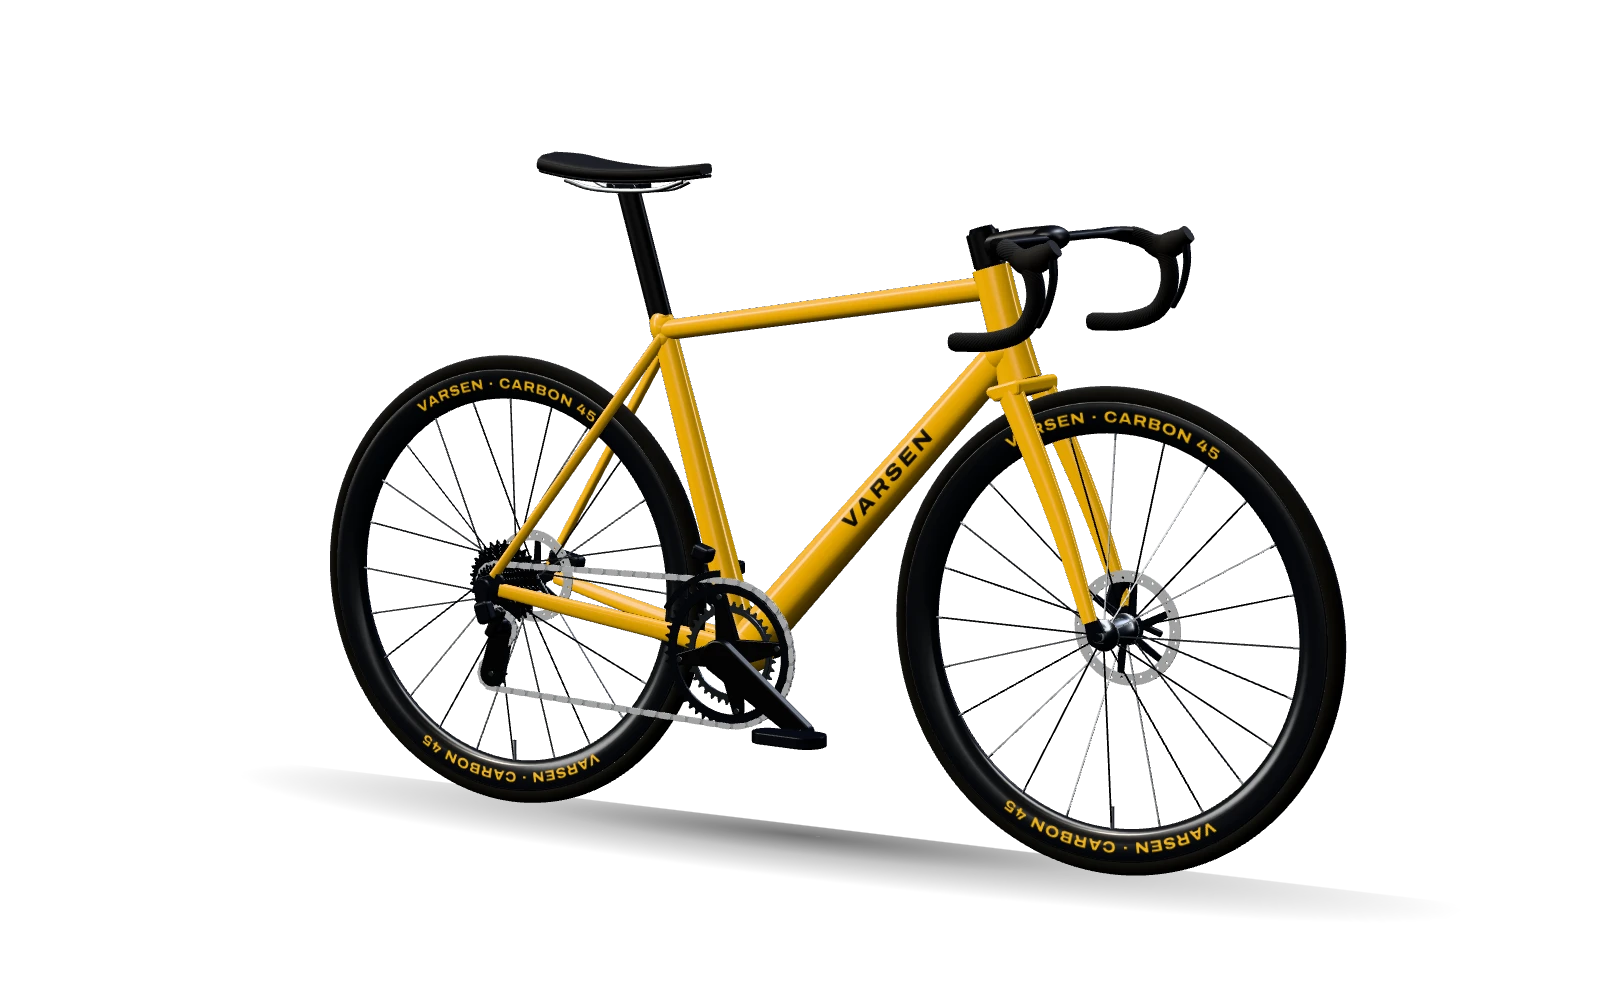
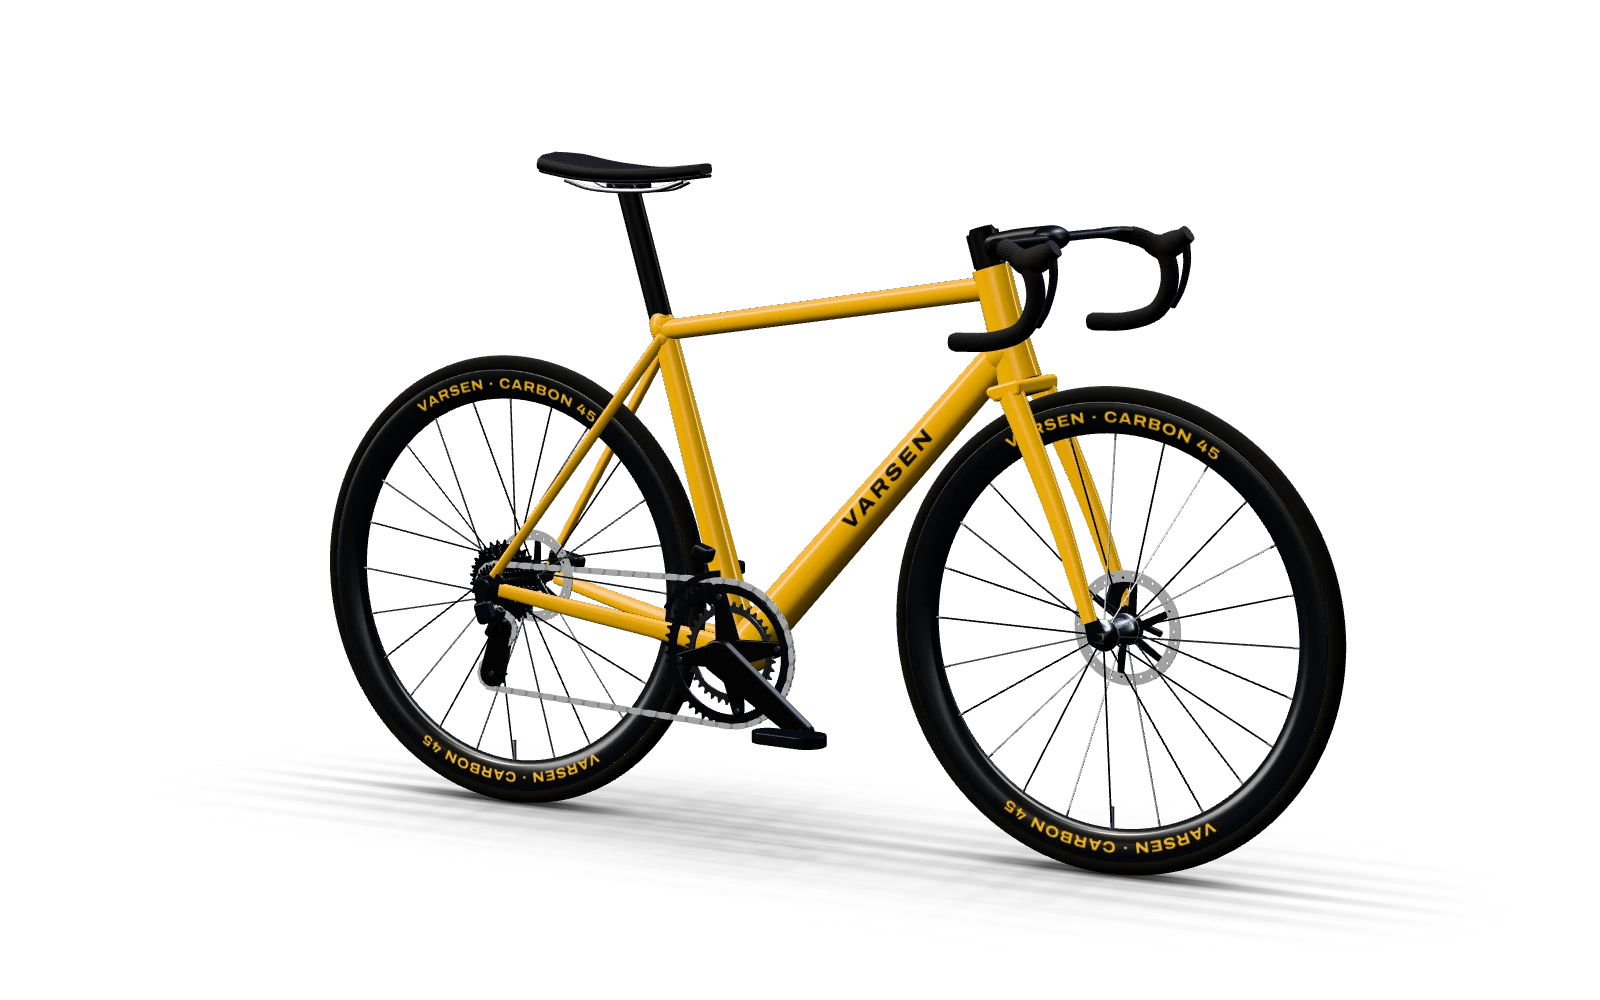
Varsen: a contact shadow rendered from the bike, and no line on the floor
Why: the owner saw a hard line on the floor under the bike, and the shadow stayed put while the bike turned. Two causes:
the floor's light pool was a radial gradient stretched onto a 3.2 x 1.3 m quad, so its long edges showed as a straight
line; and the shadow was a canvas-drawn oval fixed to the floor, so it ignored the bike's turn and its parts. The owner
chose "a real shadow from the bike" from three proposals.
What: the shadow is rendered from the bike itself: an orthographic camera on the floor looks up, every surface writes a
contact term (sharp, what nearly touches the floor) and an occlusion term (broad) by its height, each part's fade
carried in; two separable blurs (about 1.5 cm and 10 cm), and a floor quad that samples it in world space, fading at
its own and the plate's edges, drawn after the light pool. It is redrawn with each plate, so it turns with the bike and
in the build each part brings its own shadow. The light pool is now an oval that fades out fully inside its quad. The
old oval (shadowBlob) is removed. Start-up: the shadow's programs compile with the rest, its first use is spread over
one short task per part, and it joins after the first frame. Posters re-rendered.
Proved: the shadow map shows dark patches under both tyres and a pool shaped like the bike; it follows the wheels when
the bike turns 60 degrees; on the hero floor it darkens 8,319 px by up to 24 levels, and the floor's largest row-to-row
[…]

Changed region(s): [[0.25, 0.775, 0.6562, 0.899], [0.6562, 0.868, 0.8125, 0.899]]

diff --git a/scrollcraft/builds/varsen/js/app.js b/scrollcraft/builds/varsen/js/app.js
@@ -4,7 +4,7 @@
 // and the booking. Render on demand only.
 import * as THREE from '../vendor/three@0.185.1/three.module.min.js';
 import { SIZES, BY_SIZE, sizesForHeight } from './sizes.js';
-import { makeMaterials, fadeSet, buildBike, buildSize, shadowBlob, measureBuilt, validateGeometry, assembly, assertStages, STAGES, CHART, yieldToMain, slice, EASE } from './bike.js';
+import { makeMaterials, fadeSet, buildBike, buildSize, measureBuilt, validateGeometry, assembly, assertStages, STAGES, CHART, yieldToMain, slice, EASE } from './bike.js';
 
 const Q = new URLSearchParams(location.search), QA = Q.has('qa');
 const RM = matchMedia('(prefers-reduced-motion: reduce)');
@@ -66,7 +66,131 @@ function makeFader(g, FADE, skip = null) {
    ===================================================================================== */
 const STAGE_BY_ID = Object.fromEntries(STAGES.map(s => [s.id, { ...s, offV: new THREE.Vector3(...s.off), q0: new THREE.Quaternion().setFromAxisAngle(new THREE.Vector3(...s.axis).normalize(), rad(s.deg)), ndsV: s.nds ? new THREE.Vector3(...s.nds).sub(new THREE.Vector3(...s.off)) : null }]));
 const IDQ = new THREE.Quaternion();
+
+/* =====================================================================================
+   Contact shadow, rendered from the bike itself. An orthographic camera on the floor looks straight up; the depth test
+   keeps the lowest surface over each texel, and that surface's height sets how dark its shadow is (a tyre touching the
+   floor darkest, the frame faint). Two blur passes soften it and a floor quad shows it. It is redrawn with the plate it
+   lies in, so it turns with the bike, and in the build every part brings its own shadow, fading in with it.
+   (It replaced a canvas-drawn oval that was attached to the floor and cut straight across by a drawing bug.)
+   ===================================================================================== */
+const CONTACT = { size: 2.8, res: 320, height: 1.2, strength: 1.0 };   // metres of floor, texels, metres up, max darkness
+// what each texel keeps: the darkness of the lowest surface over it, scaled by that part's own fade (uOpacity)
+const SHADOW_DEPTH = new THREE.ShaderMaterial({
+  uniforms: { uOpacity: { value: 1 } },
+  vertexShader: `varying float vY;
+    void main() {
+      vec4 w = vec4(position, 1.0);
+      #ifdef USE_INSTANCING
+        w = instanceMatrix * w;
+      #endif
+      w = modelMatrix * w; vY = w.y;
+      gl_Position = projectionMatrix * viewMatrix * w;
+    }`,
+  fragmentShader: `uniform float uOpacity; varying float vY;
+    void main() {
+      float h = max(vY, 0.0);
+      // red: contact, only what nearly touches the floor (blurred a little); green: the body's soft occlusion (blurred
+      // a lot), so the bike stands in a soft pool shaped like itself with darker patches under the tyres
+      gl_FragColor = vec4(exp(-h / 0.035) * uOpacity, exp(-h / 0.55) * uOpacity, 0.0, 1.0);
+    }`,
+  side: THREE.DoubleSide,
+});
+// per mesh, before it draws in the shadow pass: carry its fade into the shadow (three uploads a ShaderMaterial's
+// uniforms once per program unless asked to)
+function shadowOpacityHook(r, s, c, g, material) {
+  if (material !== SHADOW_DEPTH) return;
+  SHADOW_DEPTH.uniforms.uOpacity.value = this.material.opacity ?? 1; SHADOW_DEPTH.uniformsNeedUpdate = true;
+}
+function makeContactShadow() {
+  const { size, res, height } = CONTACT, half = size / 2;
+  const rtA = new THREE.WebGLRenderTarget(res, res, { depthBuffer: true }), rtB = new THREE.WebGLRenderTarget(res, res, { depthBuffer: false });
+  const cam = new THREE.OrthographicCamera(-half, half, half, -half, 0, height);
+  cam.position.set(0, 0, 0); cam.up.set(0, 0, 1); cam.lookAt(0, 1, 0); cam.updateMatrixWorld(); cam.updateProjectionMatrix();
+  const vp = new THREE.Matrix4().multiplyMatrices(cam.projectionMatrix, cam.matrixWorldInverse);
+  // separable Gaussian, 9 taps as 5 bilinear reads
+  const blur = new THREE.ShaderMaterial({
+    uniforms: { tMap: { value: null }, uDir: { value: new THREE.Vector2() }, uDirG: { value: new THREE.Vector2() } }, depthTest: false, depthWrite: false,
+    vertexShader: 'varying vec2 vUv; void main() { vUv = uv; gl_Position = vec4(position.xy, 0.0, 1.0); }',
+    fragmentShader: `uniform sampler2D tMap; uniform vec2 uDir, uDirG; varying vec2 vUv;
+      float g9(vec2 d, int ch) {                    // one channel, blurred along d
+        vec4 a = texture2D(tMap, vUv) * 0.2270270270;
+        a += (texture2D(tMap, vUv + d * 1.3846153846) + texture2D(tMap, vUv - d * 1.3846153846)) * 0.3162162162;
+        a += (texture2D(tMap, vUv + d * 3.2307692308) + texture2D(tMap, vUv - d * 3.2307692308)) * 0.0702702703;
+        return ch == 0 ? a.r : a.g;
+      }
+      void main() { gl_FragColor = vec4(g9(uDir, 0), g9(uDirG, 1), 0.0, 1.0); }`,
+  });
+  const quadScene = new THREE.Scene(), quadCam = new THREE.OrthographicCamera(-1, 1, 1, -1, 0, 1);
+  quadScene.add(new THREE.Mesh(new THREE.PlaneGeometry(2, 2), blur));
+  // the floor quad: samples the shadow at its own world position through the shadow camera, so orientation cannot slip
+  const mesh = new THREE.Mesh(new THREE.PlaneGeometry(size, size), new THREE.ShaderMaterial({
+    uniforms: { tMap: { value: rtA.texture }, uVP: { value: vp }, uPlate: PLATE_PX, uStrength: { value: CONTACT.strength } },
+    transparent: true, depthWrite: false,
+    vertexShader: 'varying vec3 vW; void main() { vec4 w = modelMatrix * vec4(position, 1.0); vW = w.xyz; gl_Position = projectionMatrix * viewMatrix * w; }',
+    fragmentShader: `uniform sampler2D tMap; uniform mat4 uVP; uniform vec4 uPlate; uniform float uStrength; varying vec3 vW;
+      void main() {
+        vec4 c = uVP * vec4(vW.x, 0.0, vW.z, 1.0); vec2 uv = c.xy / c.w * 0.5 + 0.5;
+        vec2 m = texture2D(tMap, uv).rg;
+        float a = clamp(m.r * 1.6 + m.g * 0.95, 0.0, 0.94) * uStrength;   // tuned so the tyre contact reads on the dark floor
+        vec2 e = smoothstep(vec2(0.0), vec2(0.08), uv) * smoothstep(vec2(0.0), vec2(0.08), 1.0 - uv);   // never a square edge
+        vec2 q = (gl_FragCoord.xy - uPlate.xy) / uPlate.zw, ramp = vec2(0.12, 0.08);
+        vec2 f = smoothstep(vec2(0.0), ramp, q) * smoothstep(vec2(0.0), ramp, 1.0 - q);           // fade at the plate's edges
+        gl_FragColor = vec4(0.012, 0.012, 0.014, a * e.x * e.y * f.x * f.y);
+      }`,
+  }));
+  mesh.rotation.x = -Math.PI / 2; mesh.position.y = 0.0015; mesh.renderOrder = 1; mesh.name = 'contactShadow';   // after the floor pool, or the pool lights it back up
+  const pass = (src, dst, dx, dy, gx, gy) => {
+    blur.uniforms.tMap.value = src.texture; blur.uniforms.uDir.value.set(dx / res, dy / res); blur.uniforms.uDirG.value.set(gx / res, gy / res);
+    gl.renderer.setRenderTarget(dst); gl.renderer.render(quadScene, quadCam);
+  };
+  return {
+    mesh, rt: rtA,                                  // rt: read by the QA hooks
+    /** Compile the shadow's programs off the main thread at start-up (the depth pass, plain and instanced, and the
+        blur), so its first draw does not stall: compiled on first use they were a 400 ms task in Lighthouse mobile. */
+    async warm(renderer) {
+      const depth = new THREE.Scene(), g = new THREE.BoxGeometry(0.01, 0.01, 0.01);
+      depth.add(new THREE.Mesh(g, SHADOW_DEPTH), new THREE.InstancedMesh(g, SHADOW_DEPTH, 1));
+      try { await Promise.all([renderer.compileAsync(depth, cam), renderer.compileAsync(quadScene, quadCam)]); } catch { /* compiles on first use */ }
+      g.dispose();
+    },
+    /** First use, spread over short tasks, so no one-time GPU set-up lands in a long task at start-up: the first draw of
+        each mesh with the depth pass builds its GPU state (about 170 ms in one task under Lighthouse mobile), so the
+        bike's parts are drawn one per task, then each blur. */
+    async prime(renderer, bike) {
+      const { scene, floor } = gl, parts = Object.values(bike.parts);
+      floor.visible = false; scene.overrideMaterial = SHADOW_DEPTH;
+      renderer.setRenderTarget(rtA); renderer.clear(true, true, false);
+      for (const g of parts) {
+        for (const o of parts) o.visible = o === g;
+        renderer.setRenderTarget(rtA); renderer.render(scene, cam); renderer.setRenderTarget(null);
+        await yieldToMain();
+      }
+      for (const o of parts) o.visible = true;
+      scene.overrideMaterial = null; floor.visible = true;
+      pass(rtA, rtB, 1.6, 0, 6, 0); renderer.setRenderTarget(null); await yieldToMain();
+      pass(rtB, rtA, 0, 1.6, 0, 6); renderer.setRenderTarget(null); await yieldToMain();
+    },
+    live: false,                                    // off for the first frame (see initGL), then always on
+    /** Redraw the shadow of whatever bikes the scene shows now (posed, turned). Call before rendering a plate. */
+    update() {
+      if (!this.live) return;
+      const { renderer, scene, floor } = gl, clear = new THREE.Color(), alpha = renderer.getClearAlpha(); renderer.getClearColor(clear);
+      const scissor = renderer.getScissorTest();
+      renderer.setScissorTest(false);
+      floor.visible = false; scene.overrideMaterial = SHADOW_DEPTH;
+      renderer.setRenderTarget(rtA); renderer.setClearColor(0x000000, 1); renderer.clear(true, true, false);
+      renderer.render(scene, cam);
+      scene.overrideMaterial = null; floor.visible = true;
+      // contact: about 1.5 cm of softening; body: about 10 cm (two rounds of the wide blur)
+      pass(rtA, rtB, 1.6, 0, 6, 0); pass(rtB, rtA, 0, 1.6, 0, 6); pass(rtA, rtB, 0, 0, 6, 0); pass(rtB, rtA, 0, 0, 0, 6);
+      renderer.setRenderTarget(null); renderer.setClearColor(clear, alpha); renderer.setScissorTest(scissor);
+    },
+  };
+}
+
 function wrapBike(b, FADE) {
+  b.root.traverse(o => { if (o.isMesh) o.onBeforeRender = shadowOpacityHook; });   // its parts' fades reach their shadows
   const chain = b.parts.drivetrain.getObjectByName('chain');
   const faders = Object.fromEntries(Object.entries(b.parts).map(([k, g]) => [k, makeFader(g, FADE, k === 'drivetrain' ? chain : null)]));
   const w = { ...b, faders, chainFader: makeFader(chain, FADE), spins: { wheelF: b.parts.wheelF.getObjectByName('spin'), wheelR: b.parts.wheelR.getObjectByName('spin') },
@@ -226,12 +350,16 @@ async function buildEnvironment(r, scene) {       // PMREM without blocking: pre
   return env;
 }
 function floorPool() {                              // the pool of light the bike stands in (reads as the studio floor)
+  // Drawn as a smooth falloff that reaches zero well inside its square, on a square quad. (It was a radial gradient
+  // stretched onto a 3.2 x 1.3 m quad: the corners of the texture still carried light, so the quad's long edges
+  // showed on the floor as a straight line under the bike.)
   const c = document.createElement('canvas'); c.width = c.height = 256;
-  const x = c.getContext('2d'), g = x.createRadialGradient(128, 128, 0, 128, 128, 128);
-  g.addColorStop(0, 'rgba(255,255,255,1)'); g.addColorStop(0.5, 'rgba(255,255,255,0.35)'); g.addColorStop(1, 'rgba(255,255,255,0)');
+  const x = c.getContext('2d'), g = x.createRadialGradient(128, 128, 0, 128, 128, 120);
+  g.addColorStop(0, 'rgba(255,255,255,1)'); g.addColorStop(0.35, 'rgba(255,255,255,0.55)'); g.addColorStop(0.7, 'rgba(255,255,255,0.14)'); g.addColorStop(1, 'rgba(255,255,255,0)');
   x.fillStyle = g; x.fillRect(0, 0, 256, 256);
   const tex = new THREE.CanvasTexture(c); tex.colorSpace = THREE.SRGBColorSpace;
-  const m = new THREE.Mesh(new THREE.PlaneGeometry(3.2, 1.3), new THREE.MeshBasicMaterial({ map: tex, transparent: true, opacity: 0.075, depthWrite: false, toneMapped: false }));
+  const pool = new THREE.PlaneGeometry(3.2, 3.2); pool.scale(1, 0.42, 1);   // an oval pool, its texture fully faded inside the quad
+  const m = new THREE.Mesh(pool, new THREE.MeshBasicMaterial({ map: tex, transparent: true, opacity: 0.075, depthWrite: false, toneMapped: false }));
   m.rotation.x = -Math.PI / 2; m.position.y = 0.0008; m.renderOrder = -2; m.name = 'floorPool';
   return fadeAtPlateEdges(m);
 }
@@ -454,6 +582,7 @@ function plateSignature(spec, r, pr) {
 /** Draw the scene (already posed and aimed) at the off-screen canvas's top-left, then copy it into the plate's canvas. */
 function drawPlate(P, r) {
   const { renderer, scene, camera } = gl;
+  gl.contact.update();                              // the floor shadow of the bike exactly as this plate poses it
   if (r.width > gl.cw || r.height > gl.ch) {        // a plate larger than the screen: grow the drawing buffer to hold it
     const w = Math.max(gl.cw, Math.ceil(r.width)), h = Math.max(gl.ch, Math.ceil(r.height));
     renderer.setSize(w, h, false); gl.cw = w; gl.ch = h;
@@ -498,6 +627,7 @@ function restPass() {
     if (pr < level * 1.2 || (P.rest && P.rest === P.sig)) continue;                    // little to gain, or done
     const spec = preparePlate(name, r); if (!spec) continue;
     const sig = plateSignature(spec, r, level);
+    gl.contact.update();
     const w = Math.ceil(r.width), h = Math.ceil(r.height);
     renderer.setPixelRatio(pr); renderer.setSize(w, h, false); resized = true;   // a buffer the plate's own size
     renderer.setViewport(0, 0, r.width, r.height); renderer.setScissor(0, 0, r.width, r.height); renderer.setScissorTest(true);
@@ -548,6 +678,7 @@ function renderPoster(kind, arg, cssW = 800) {
   for (const b of gl.all) b.root.visible = b === bike;
   pose(bike, ASSEMBLED, 1); gl.spinner.rotation.y = 0; light.t = 1; applyLight();
   if (typeof view === 'function') view(camera, aspect); else aim(camera, view, aspect);
+  gl.contact.update();
   renderer.setScissorTest(true); renderer.setViewport(0, y, cssW, cssH); renderer.setScissor(0, y, cssW, cssH);
   PLATE_PX.value.set(0, y * pr, cssW * pr, cssH * pr);
   renderer.setClearColor(0x000000, 0); renderer.clear(); renderer.render(scene, camera);
@@ -857,9 +988,9 @@ async function initGL() {
   const base = wrapBike(raw, FADE); spinner.add(base.root);
   const key = new THREE.DirectionalLight(0xfff6e8, 1.9), rim = new THREE.DirectionalLight(0xdfe8ff, 0.9);
   rim.position.set(1.4, 3.8, -4.4); scene.add(key, rim);
-  const floor = new THREE.Group(); floor.add(floorPool(), fadeAtPlateEdges(shadowBlob())); scene.add(floor);
+  const contact = makeContactShadow(), floor = new THREE.Group(); floor.add(floorPool(), contact.mesh); scene.add(floor);
   const camera = new THREE.PerspectiveCamera(24, 1, 0.05, 20);
-  Object.assign(gl, { scene, camera, spinner, base, base56: raw, bikes: new Map([[56, base]]), all: [base], M, FADE_A: FADE, FADE_B, key, rim, floor });
+  Object.assign(gl, { scene, camera, spinner, base, base56: raw, bikes: new Map([[56, base]]), all: [base], M, FADE_A: FADE, FADE_B, key, rim, floor, contact });
   // fits: the hero ring, the build's travel, the chooser's largest frame
   gl.ring = ringCorners(base.box); gl.ringTarget = new THREE.Vector3(0, (base.box.min.y + base.box.max.y) / 2, 0);
   gl.buildVols = buildVolumes(base);
@@ -875,6 +1006,8 @@ async function initGL() {
     try { await renderer.compileAsync(scene, camera); } catch { /* compiles on first use */ }
     await yieldToMain();
   }
+  await contact.warm(renderer); await yieldToMain();
+  base.posed = null; pose(base, ASSEMBLED); await contact.prime(renderer, base);
   for (const f of [...Object.values(base.faders), base.chainFader]) f(null);
   base.posed = null; pose(base, ASSEMBLED);
   // the tour's stops in world space, read off the assembled size 56 (the tour never shows another size)
@@ -888,6 +1021,9 @@ async function initGL() {
   light.t = QA || RM.matches ? 1 : 0;
   dirty = true; frame(performance.now());
   html.classList.add('gl-ready');
+  // The contact shadow joins after the first frame, in a task of its own: its one-time GPU set-up inside the start-up
+  // task cost Lighthouse mobile about 200 ms of blocking time. The plates fade in over 600 ms, so it is never seen arriving.
+  setTimeout(() => { contact.live = true; for (const P of Object.values(plateGL)) P.sig = ''; dirty = true; kick(); }, 0);
   window.__bike.initMs = Math.round(performance.now() - t0);
   // the other six sizes, one at a time, in the background, so the chooser answers at once; the largest first, so its fit is final early
   for (const s of [61, 44, 49, 52, 54, 58]) {

diff --git a/scrollcraft/builds/varsen/js/bike.js b/scrollcraft/builds/varsen/js/bike.js
@@ -662,16 +662,6 @@ async function buildSaddle(J, M) {                // origin = STT
   }
   return g;
 }
-export function shadowBlob() {                    // the one contact shadow: a soft ellipse texture on a ground quad
-  const c = document.createElement('canvas'); c.width = 256; c.height = 64;
-  const x = c.getContext('2d'), gr = x.createRadialGradient(128, 32, 0, 128, 32, 128);
-  gr.addColorStop(0, 'rgba(0,0,0,0.55)'); gr.addColorStop(0.45, 'rgba(0,0,0,0.22)'); gr.addColorStop(1, 'rgba(0,0,0,0)');
-  x.setTransform(1, 0, 0, 0.25, 0, 24); x.fillStyle = gr; x.fillRect(0, 0, 256, 256);
-  const tex = new THREE.CanvasTexture(c); tex.colorSpace = THREE.SRGBColorSpace;
-  const m = new THREE.Mesh(new THREE.PlaneGeometry(2.0, 0.5), new THREE.MeshBasicMaterial({ map: tex, transparent: true, depthWrite: false, toneMapped: false, color: 0x2b2a27 }));
-  m.rotation.x = -Math.PI / 2; m.position.y = 0.0015; m.renderOrder = -1; m.name = 'contactShadow';
-  return m;
-}
 // Builds run one at a time: every builder reads G0 (the joints of the size being built), so two interleaved async
 // builds would swap joints mid-build.
 let queueTail = Promise.resolve();
